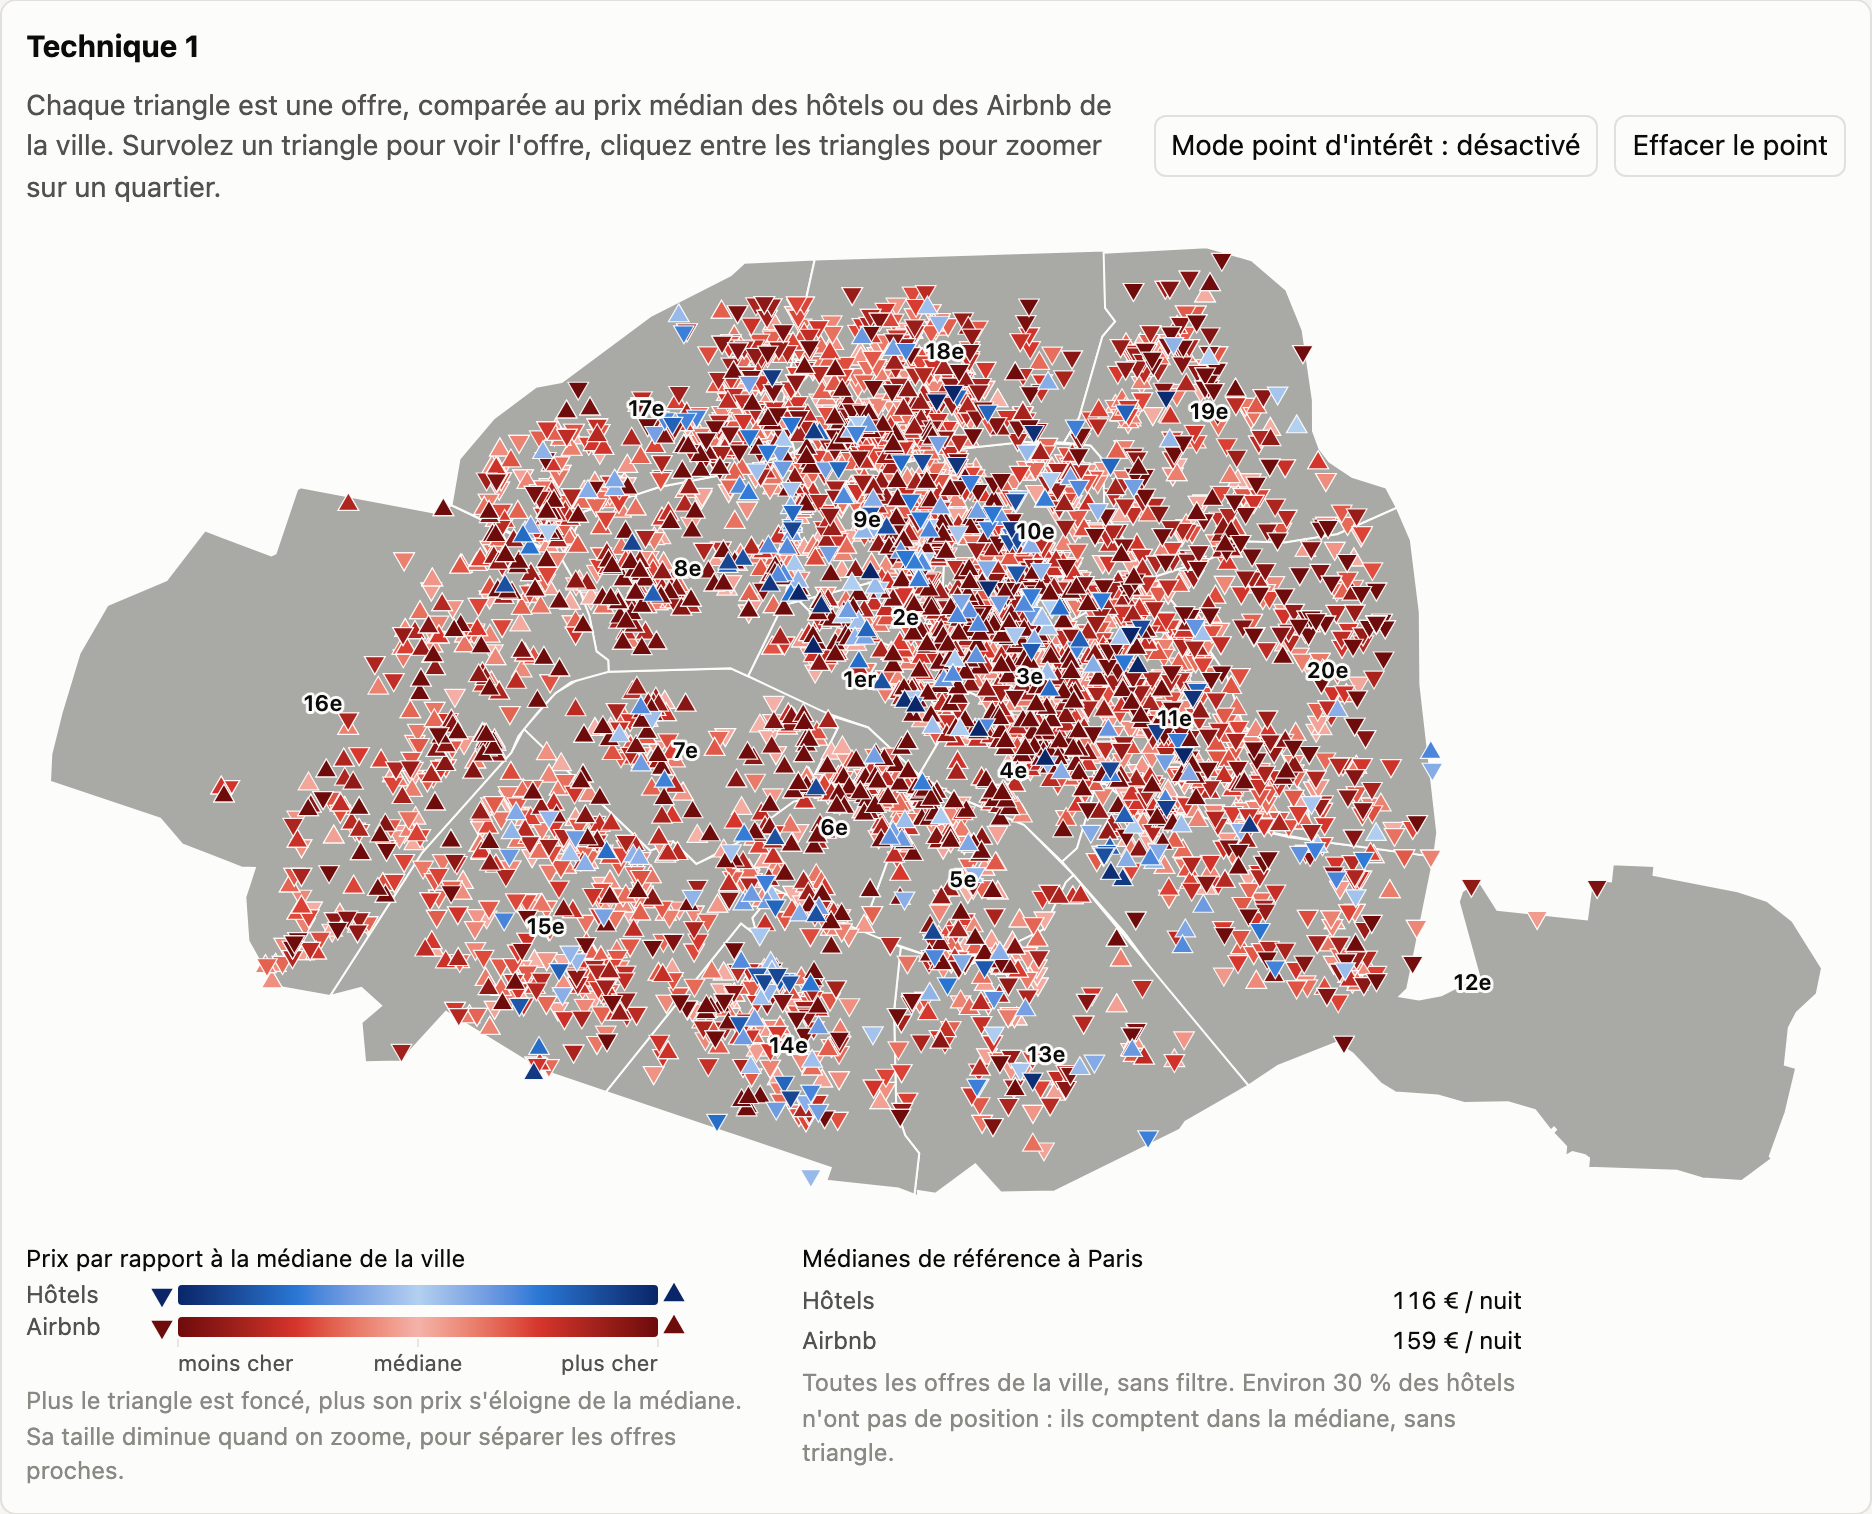
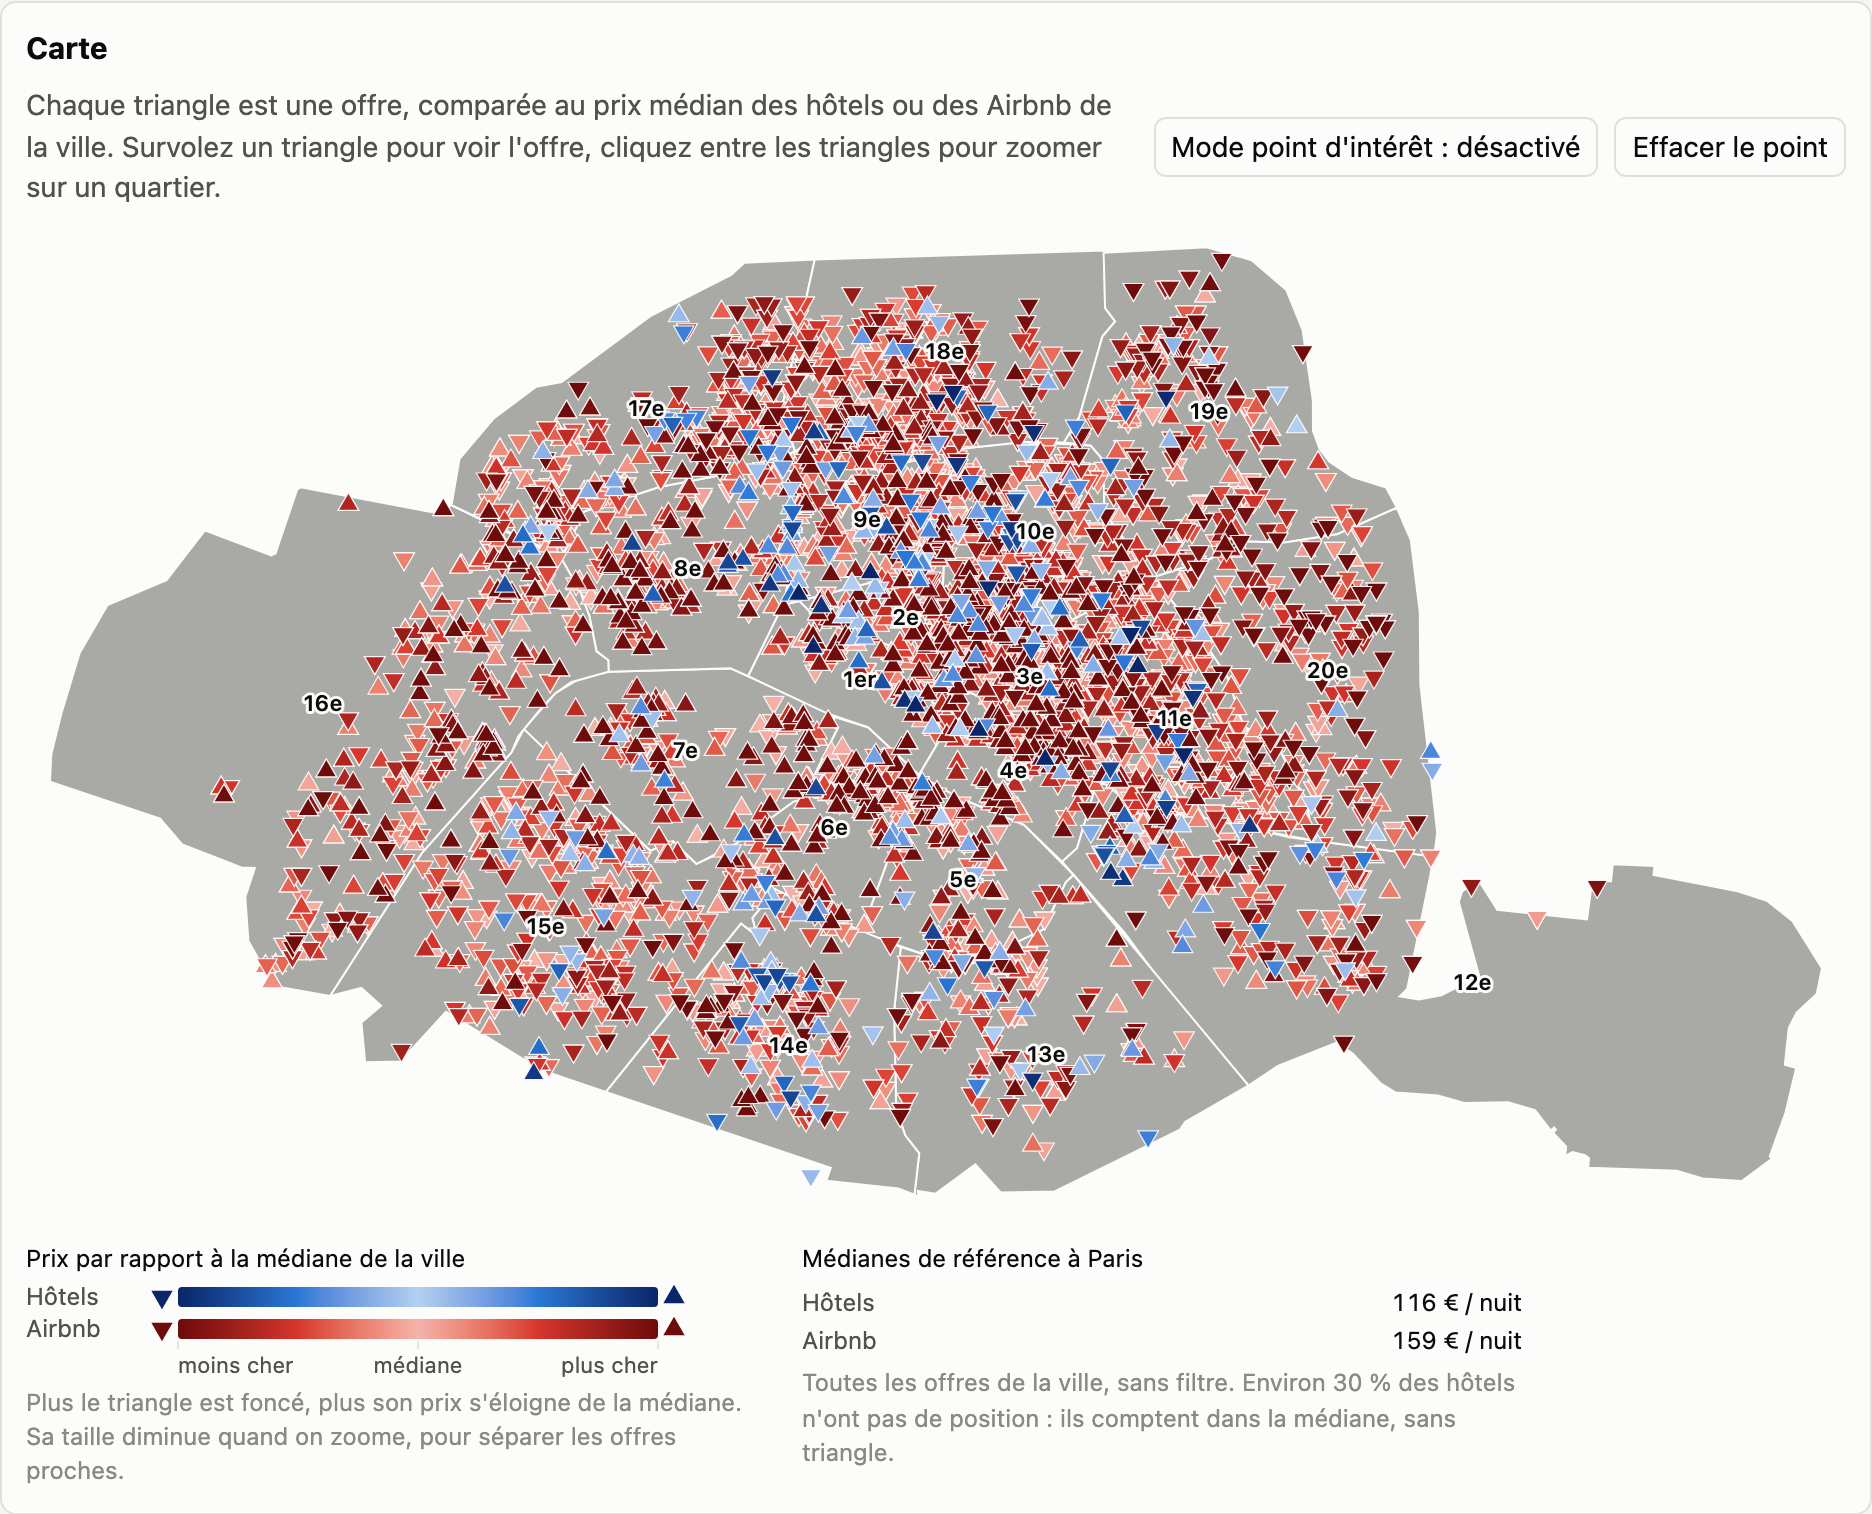
feat(carte): la vue s'intitule « Carte » au lieu de « Technique 1 »
Captures de la carte et des points d'intérêt refaites avec le nouveau titre.

diff --git a/viz/index.html b/viz/index.html
@@ -33,7 +33,7 @@
     <div class="vues">
       <!-- Technique 1 : technique-1/ (carte des offres) -->
       <section id="technique-1" class="vue">
-        <h2 class="vue-titre">Technique 1</h2>
+        <h2 class="vue-titre">Carte</h2>
         <div class="vue-contenu"></div>
       </section>
       <!-- Technique 2 : technique-2/ (nuage de points) -->
